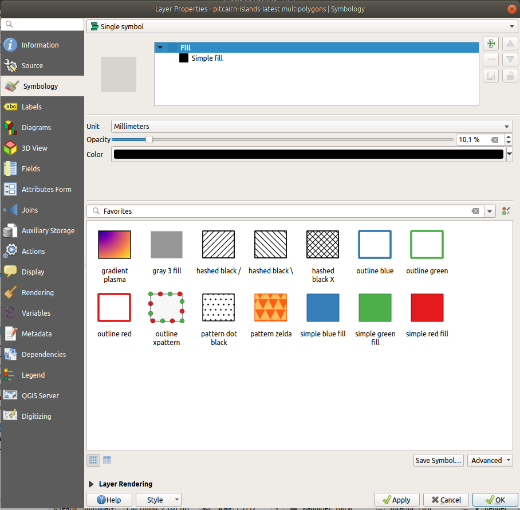
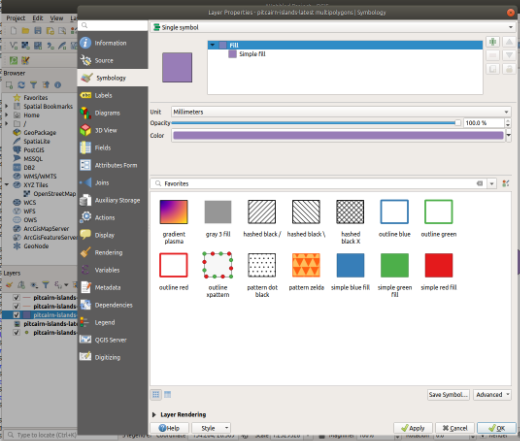
second version of the rewritten OSM in QGIS guide

diff --git a/_posts/en/0600-12-13-osm-in-qgis_en.md b/_posts/en/0600-12-13-osm-in-qgis_en.md
@@ -9,7 +9,7 @@ category: osm-data
 Using OSM Data in QGIS
 =================
 
-> Reviewed 2021-05-14
+> Reviewed 2021-05-15
 
 QGIS (formerly Quantum GIS) is a full-featured, open-source, cross-platform Geographic Information System. With QGIS you can access up-to-date OSM data whenever you want, select the tags you want to include, and easily export it into an easy-to-use SQLite database or Shapefile.  
 
@@ -39,6 +39,8 @@ Importing extracts
 
 There are several options how to obtain ready-made extracts of an area. <https://wiki.openstreetmap.org/wiki/Planet.osm#Country_and_area_extracts> contains a list of several websites. Just pick a **.osm** or **.pbf** file and download it. 
 
+You can either use QuickOSM to import it clicking on 'OSM File' in the left bar. Once you used QuickOSM OSM files should have been made known to QGIS and you can use the regular vector layer import:
+
 - Go to Layer -> Add Layer -> Add Vector Layer...  
 - In the source field, select your file and click "Add".  
 - You can select one or more type layers from that file.  
@@ -64,19 +66,37 @@ You can choose to re-import the exported layer by checking the box at the bottom
 Working with the Data
 --------------------
 
-We cannot give you even a rough overview over what you can do with QGIS and there are many excellent tutorials and books which will guide you step-by-step towards mastering the software. But as OSM data imported by one of the methods described above have their tags encoded in a special way here is a quick example how to deal with them (for the curious, the example is pitcairn-islands-latest from Geofabrik's download page for Australia and Oceania):
+We cannot give you even a rough overview over what you can do with QGIS and there are many excellent tutorials and books which will guide you step-by-step towards mastering the software. But as OSM data imported by one of the methods described above have their tags encoded in a special way here is an example how to deal with them (for the curious, the example is pitcairn-islands-latest from Geofabrik's download page for Australia and Oceania. You can inspect the data of a vecor layer using 'Open Attribute table' from the context menu of a layer, in this case the multipolygon layer.
 
-In this example polygons are mostly islands and buildings. As they are on the same layer they are rendered in the same way which means that islands cover everything else. Let me first make sure that these polygons appear less prominently. From the context menu of the multipolygon layer I select Properties and on that form I move to the Symbology tab. At the top I change the fill colour to black and reduce the opacity so that the polygons appear in a light grey and render other features below them visible.
+![attribute table][]
+
+We can see that all the key-value-pairs for the tags of the various objects are organized in a specially formatted text string in the field 'other_tags'. This kind of storage is called "hstore" in a PostgreSQL database and is the standard for OSM data.
+
+In this example polygons are mostly islands, forest and buildings. Initially they are rendered in the same way which means that islands cover everything else. Let us render them differently in order to get a feeling how to identify different objects. Discard the attribute table.  From the context menu of the multipolygon layer select Properties and on that form move to the Symbology tab. 
 
 ![symbology][]
 
-Next I'd like to treat buildings differently. Treat differently means that I need them on a different layer. This time I choose the Attribute table from the context menu of the multipolygon layer. We can see that all the key-value-pairs for the tags of the various objects are organized in a specially formatted text string in the field 'other_tags'. This kind of storage is called hstore in a PostgreSQL database and is the standard for OSM data. I am looking for buildings i.e. for objects whose building tag is not empty. In order to find and select them I click on the 'select features using an expression' icon in the toolbar at the top of the table (marked with a purple square in the image below). I must use a little workaround because QGIS' expression evaluation cannot directly deal with hstore strings. But a utility comes to our rescue and the filter expression shown in the image `hstore_to_map(other_tags)['building'] is not NULL` converts this string into a key-value-map. The condition reads that we look for objects whose building key is not empty. Clicking on Select features at the bottom selects all those lines (shown in blue).
+First change the type of the symbol from "Single symbol" to "Rule based" using the combobox at the top of the form. 
 
-![selection][]
+![symbology rule based][]
 
-Next I need to put them in a layer. From the main QGIS menu we go to Edit -> Paste Features as -> New Vector Layer...  Pretty much like the export already described, I need a file name for a Shapefile layer (buildings.shp in this example) and the other defaults can be left as they are. Do not forget to keep "Add saved file to map" checked. The new layer will automatically receive a different fill colour and should therefore be clearly visible. Otherwise you already know how to change this.
+The current rendering appears as a rule with no filters. We can modify this rule by clicking on the icon marked with a purple square in the image above.
 
-![selection loaded][]
+![symbology edit rule][]
+
+We'd like to treat buildings differently. Treat differently means that rules need to be specified according to layer properties. QGIS' expression evaluation cannot directly deal with hstore strings. But a utility comes to our rescue and the filter expression shown in the image `hstore_to_map(other_tags)['building'] is not NULL` converts the 'other_tags' string into a key-value-map where we pick the value for the key 'building'. The condition reads that we look for objects whose building key is not empty. We can define a colour and fill style for the buildings. Click 'OK' when you are finished with your rule design. Now you can add further rules by clicking on the 'plus' icon at the bottom of the symbology tab. We add similar rules for woods and grassland. At the end our symbology tab will look like this:
+
+![symbology polygon rules][]
+
+As an added bonus we can get a quick feature count for the rules. Press the rightmost icon in the row at the bottom (the sum symbol) and the 'count' column will be populated telling us that we have 150 buildings on this layer.
+
+You can add labels in a similar fashion how we dealt with symbols. 'Labels' is another tab on the properties of a layer, right below Symbology. In most cases you want to print the given name of a feature. You enter an expression similar to the ones used for symbology in the field for a filter and as value you would use `hstore_to_map(other_tags)['name']`. 
+
+![labels][]
+
+Assigning such labels to the multipolygon and the point layers you will end up with something like this:
+
+![done][]
 
 
 Summary
@@ -90,7 +110,10 @@ This process makes it easy to get up-to-date OSM data and pull it into QGIS. Onc
 [import osm]: /images/osm-data/qgis-import-osm.png
 [import osm loaded]: /images/osm-data/qgis-import-osm-loaded.png
 [export]: /images/osm-data/qgis-export.png
-[attribute table]: /images/osm-data/attribute_table.png
+[attribute table]: /images/osm-data/qgis-layer-attributes.png
 [symbology]: /images/osm-data/qgis-layer-symbology.png
-[selection]: /images/osm-data/qgis-layer-selection.png
-[selection loaded]: /images/osm-data/qgis-layer-selection-loaded.png
+[symbology rule based]: /images/osm-data/qgis-layer-symbology-rule.png
+[symbology edit rule]: /images/osm-data/qgis-layer-symbology-edit-rule.png
+[symbology polygon rules]: /images/osm-data/qgis-layer-symbology-poly-rules.png
+[labels]: /images/osm-data/qgis-layer-labels.png
+[done]: /images/osm-data/qgis-complete.png
